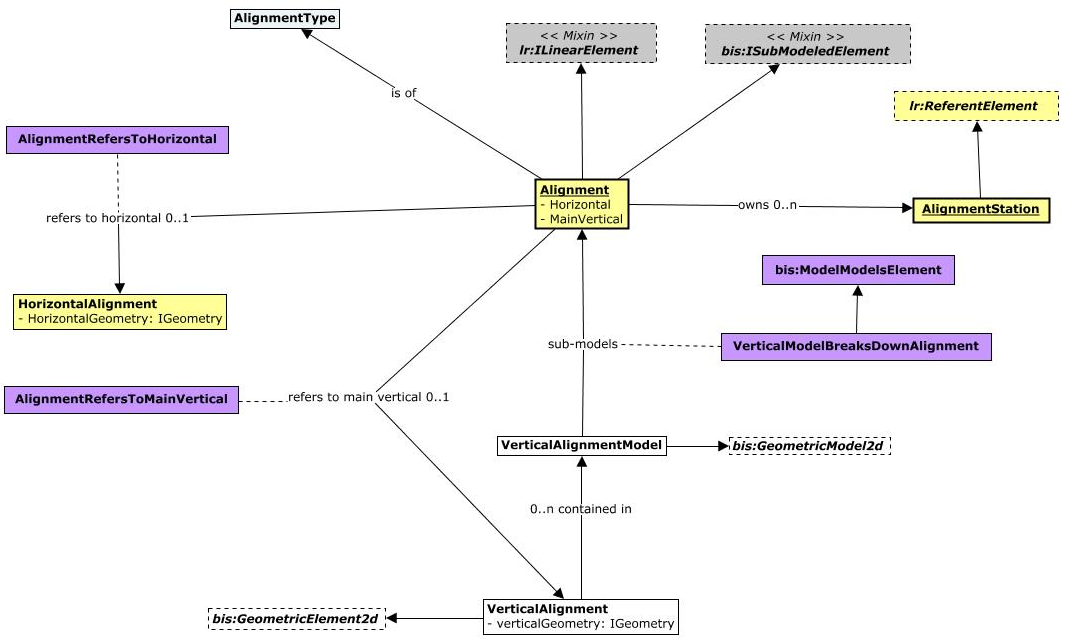
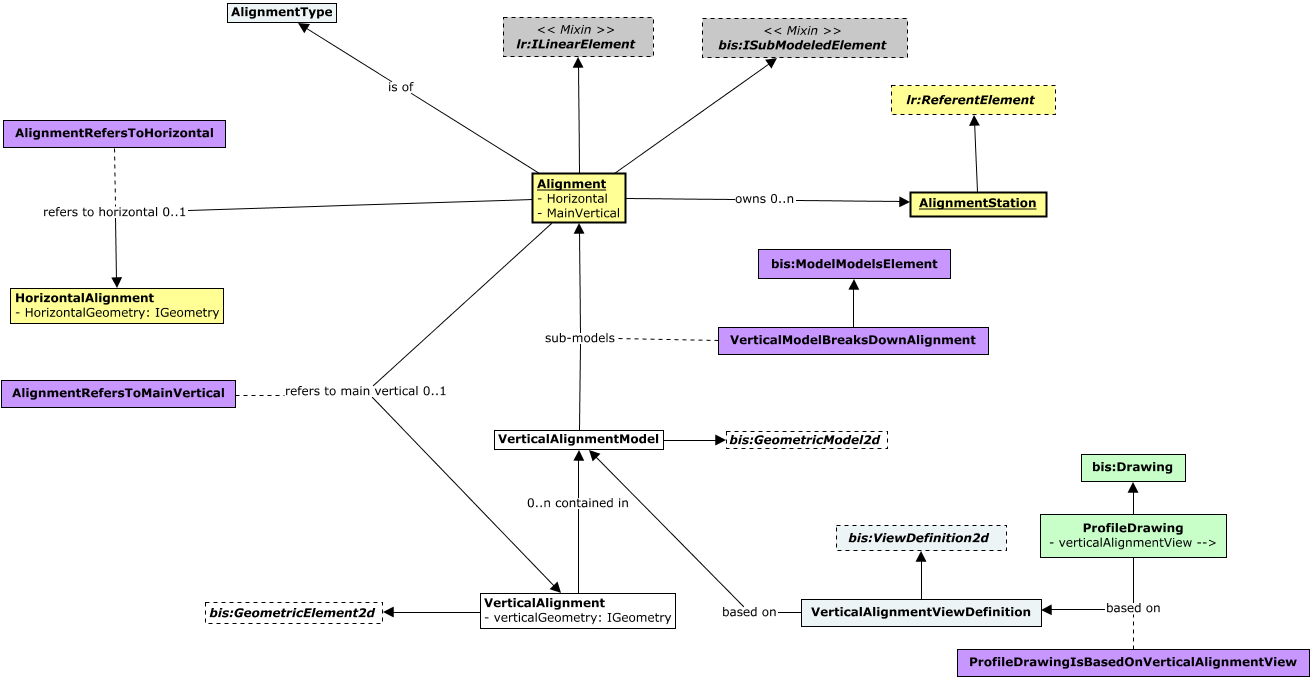
Schema changes supporting live Drawing Production. Documentation updates.

diff --git a/Domains/2-DisciplinePhysical/Civil/RoadRailAlignment/RoadRailAlignment.remarks.md b/Domains/2-DisciplinePhysical/Civil/RoadRailAlignment/RoadRailAlignment.remarks.md
@@ -12,11 +12,17 @@ Contains the main classes to capture Alignment information primarily used in Roa
 
 ### Alignment
 
-When an `Alignment` drives the design of a linear asset, it is referred to as a *Design Alignment*. `Alignment`s used for design purposes shall be contained in a `SpatialLocationModel`, submodel of a `DesignAlignments` instance, and by default, shall use the Domain-ranked `Alignment` category.
+An `Alignment` that drives the design of a linear asset, it is referred to as a *Design Alignment*. Whereas an `Alignment` that describes a secondary entity of a linear asset, but it is still expected to capture the kind of data typically associated to Alignments, it is referred to as a *Linear*.
 
-On the other hand, when an `Alignment` describes a secondary entity of a linear asset, it is referred to as a *Linear*. `Alignment`s created for the purpose of a *Linear* shall be contained in any `SpatialModel`, and by default, shall use the Domain-ranked `Linear` category.
+By default, *Design Alignments* may use the Domain-ranked `Alignment` category, while *Linears* by default may use the Domain-ranked `Linear` category.
 
-An `Alignment` shall always have an associated `HorizontalAlignment`, but `VerticalAlignment`s are optional. When an `Alignment` has one or more associated `VerticalAlignment`s, it refers to the one used to describe its profile as being the *Main Vertical*.
+Data-writers need to decide the most appropriate organization for Alignment data. `Alignment` instances can be stored in either SpatialLocationModels or PhysicalModels. 
+
+A data-writer may choose to organize `Alignment` instances in a direct submodel of the corresponding `InformationPartitionElement`  (i.e. `PhysicalPartition` or `SpatialLocationPartition`) at the leaves of the Subject Hierarchy. That is the most typical approach. Another strategy involves storing them in models deeper in the overall Information Hierarchy in a BIS repository.
+
+In the latter strategy, `Alignment`s used for design purposes can be stored in a `SpatialLocationModel`, submodel of a `DesignAlignments` instance. Moreover `Alignment`s created for the purpose of a *Linear* can be contained in any `SpatialModel` (i.e. `PhysicalModel` or `SpatialLocationModel`).
+
+An `Alignment` shall always have one and only one associated `HorizontalAlignment`, but `VerticalAlignment`s are optional. When an `Alignment` has one or more associated `VerticalAlignment`s, it refers to the one used to describe its profile as being the *Main Vertical*.
 
 The `Alignment` class inherits its `LengthValue` property from the `ILinearElement` mix-in. In the case of `Alignment`s, such property shall store its horizontal length rather than its 3D length. Such horizontal length is computed from the associated `HorizontalAlignment` instance and cached into the `LengthValue` property of the `Alignment`.
 
@@ -32,17 +38,19 @@ Equivalent to [IfcAlignmentTypeEnum](https://standards.buildingsmart.org/IFC/REL
 
 ### DesignAlignments
 
-A `DesignAlignments` instance, by default, shall use the Domain-ranked `Alignment` category.
+A `DesignAlignments` instance is mainly used by data-writers who do not organize Alignment data directly from the Subject hierarchy, via a PhysicalPartition or SpatialLocationPartition, but wish to do so at a deeper level of the overall Information Hierarchy. 
+
+By default, a `DesignAlignments` instace may use the Domain-ranked `Alignment` category.
 
 ### HorizontalAlignments
 
-Every set of `Alignment`s, contained in a `SpatialModel`, shall have one and only one instance of `HorizontalAlignments` leading to a *Plan-projection* `SpatialLocationModel` containing one `HorizontalAlignment` instance for each `Alignment` in the parent model. 
+A data-writer may choose to organize `HorizontalAlignment` instances in a direct submodel of the corresponding `InformationPartitionElement`  (i.e. `PhysicalPartition` or `SpatialLocationPartition`) at the leaves of the Subject Hierarchy. That is the most typical approach. Another strategy involves storing them in models deeper in the overall Information Hierarchy in a BIS repository. A `HorizontalAlignments` instance is used in the latter case. That is, every set of `Alignment`s, contained in a `SpatialModel`, shall have one and only one instance of `HorizontalAlignments` leading to a *Plan-projection* `SpatialLocationModel` (i.e. with its *IsPlanProjection* property set to *true*) containing one `HorizontalAlignment` instance for each `Alignment` in the parent model.
 
-Each `HorizontalAlignments` instance shall set its `CodeValue` property to "Horizontal Alignments", and by default, shall use the Domain-ranked `Alignment` category in the case of *Design Alignments* or the `Linear` category in the case of *Linears*.
+Each `HorizontalAlignments` instance shall set its `CodeValue` property to "Horizontal Alignments", and by default, may use the Domain-ranked `Alignment` category in the case of *Design Alignments* or the `Linear` category in the case of *Linears*.
 
 ### HorizontalAlignment
 
-A `HorizontalAlignment` instance shall be contained in a *Plan-projection* `SpatialLocationModel` submodel of a `HorizontalAlignments` instance, and shall be associated with one `Alignment` on such parent model via the `AlignmentRefersToHorizontal` relationship.
+A `HorizontalAlignment` instance shall be contained in a *Plan-projection* `SpatialLocationModel` or `PhysicalModel` (i.e. with its *IsPlanProjection* property set to *true*), submodel of the corresponding `InformationPartitionElement`, or a `HorizontalAlignments` instance, depending upon the chosen data-organization strategy. A `HorizontalAlignment` instance shall be associated with one and only one `Alignment` via the `AlignmentRefersToHorizontal` relationship.
 
 A `HorizontalAlignment` typically has the same `CodeValue` and Category as its associated `Alignment`.
 
